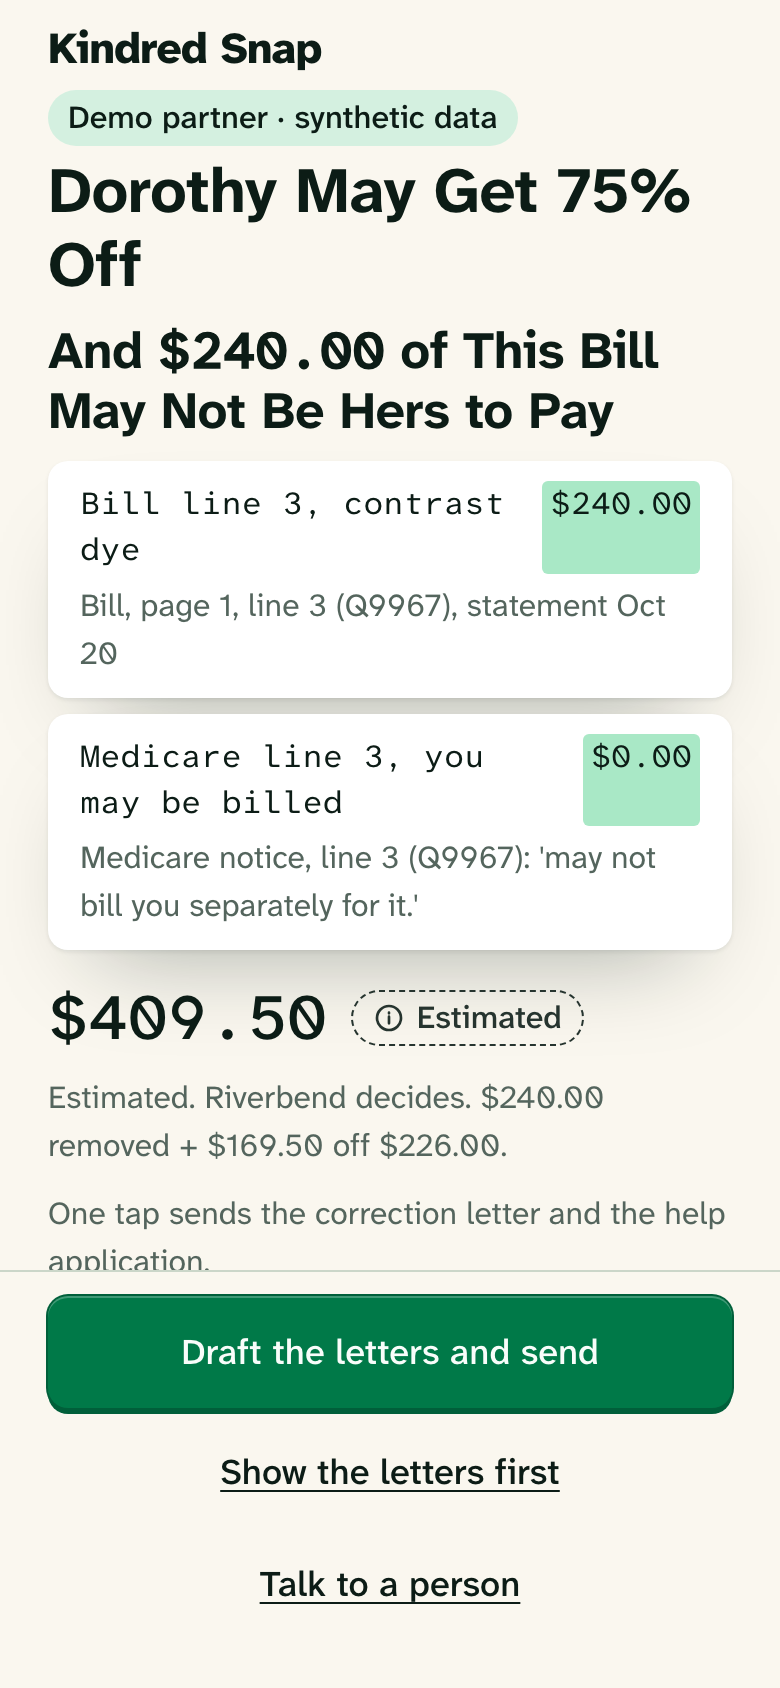
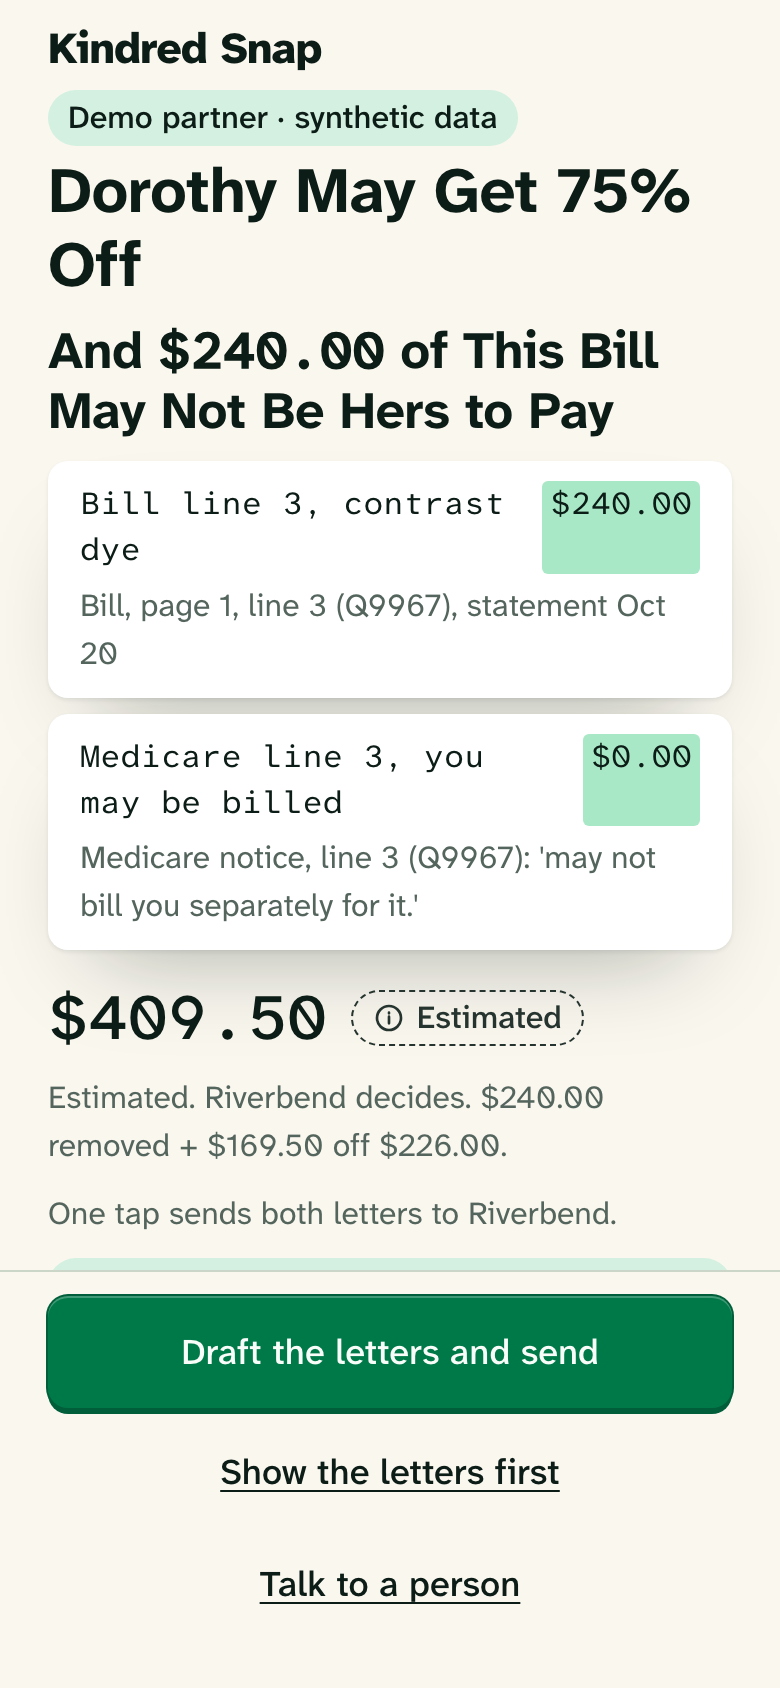
docs(mocks): working screen keeps only the feed; result copy fits the frame

Changed region(s): [[0.0615, 0.7085, 0.9231, 0.7701]]

diff --git a/docs/mocks/M04-result.dc.html b/docs/mocks/M04-result.dc.html
@@ -147,7 +147,7 @@ svg{display:block}
       <span class="amount">$409.50</span><span class="badge badge--estimated"><svg viewBox="0 0 24 24" width="16" height="16" fill="none" stroke="currentColor" stroke-width="2" stroke-linecap="round" stroke-linejoin="round" aria-hidden="true"><circle cx="12" cy="12" r="9"/><path d="M12 11v5M12 8v.5"/></svg>Estimated</span>
       <span class="small muted" style="flex-basis:100%">Estimated. Riverbend decides. $240.00 removed + $169.50 off $226.00.</span>
     </div>
-    <p id="letters" class="small muted">One tap sends the correction letter and the help application.</p>
+    <p id="letters" class="small muted">One tap sends both letters to Riverbend.</p>
     <div class="alert alert--warn" style="padding:10px 16px">
       <span class="icon"><svg viewBox="0 0 24 24" width="24" height="24" fill="none" stroke="currentColor" stroke-width="2" stroke-linecap="round" stroke-linejoin="round" aria-hidden="true"><rect x="3" y="5" width="18" height="16" rx="2"/><path d="M3 10h18M8 3v4M16 3v4"/></svg></span>
       <p>Bill due Nov 30. We ask Riverbend to hold the account while they review.</p>

diff --git a/docs/mocks/M03-working.dc.html b/docs/mocks/M03-working.dc.html
@@ -160,7 +160,6 @@ svg{display:block}
           <div style="flex:1;min-width:0"><div class="title">5. Write letters: working</div><div class="sub">Drafting the correction letter and the help application</div></div>
         </li>
     </ol>
-    <div style="display:flex;flex-wrap:wrap;align-items:center;gap:0 16px"><button class="btn-text small" type="button" style="width:auto;padding:0">Copy link</button><button class="btn-text small" type="button" style="width:auto;padding:0">Delete case</button></div>
   </main>
   <div class="actionbar">
     <button class="btn-text" type="button">Talk to a person</button>
